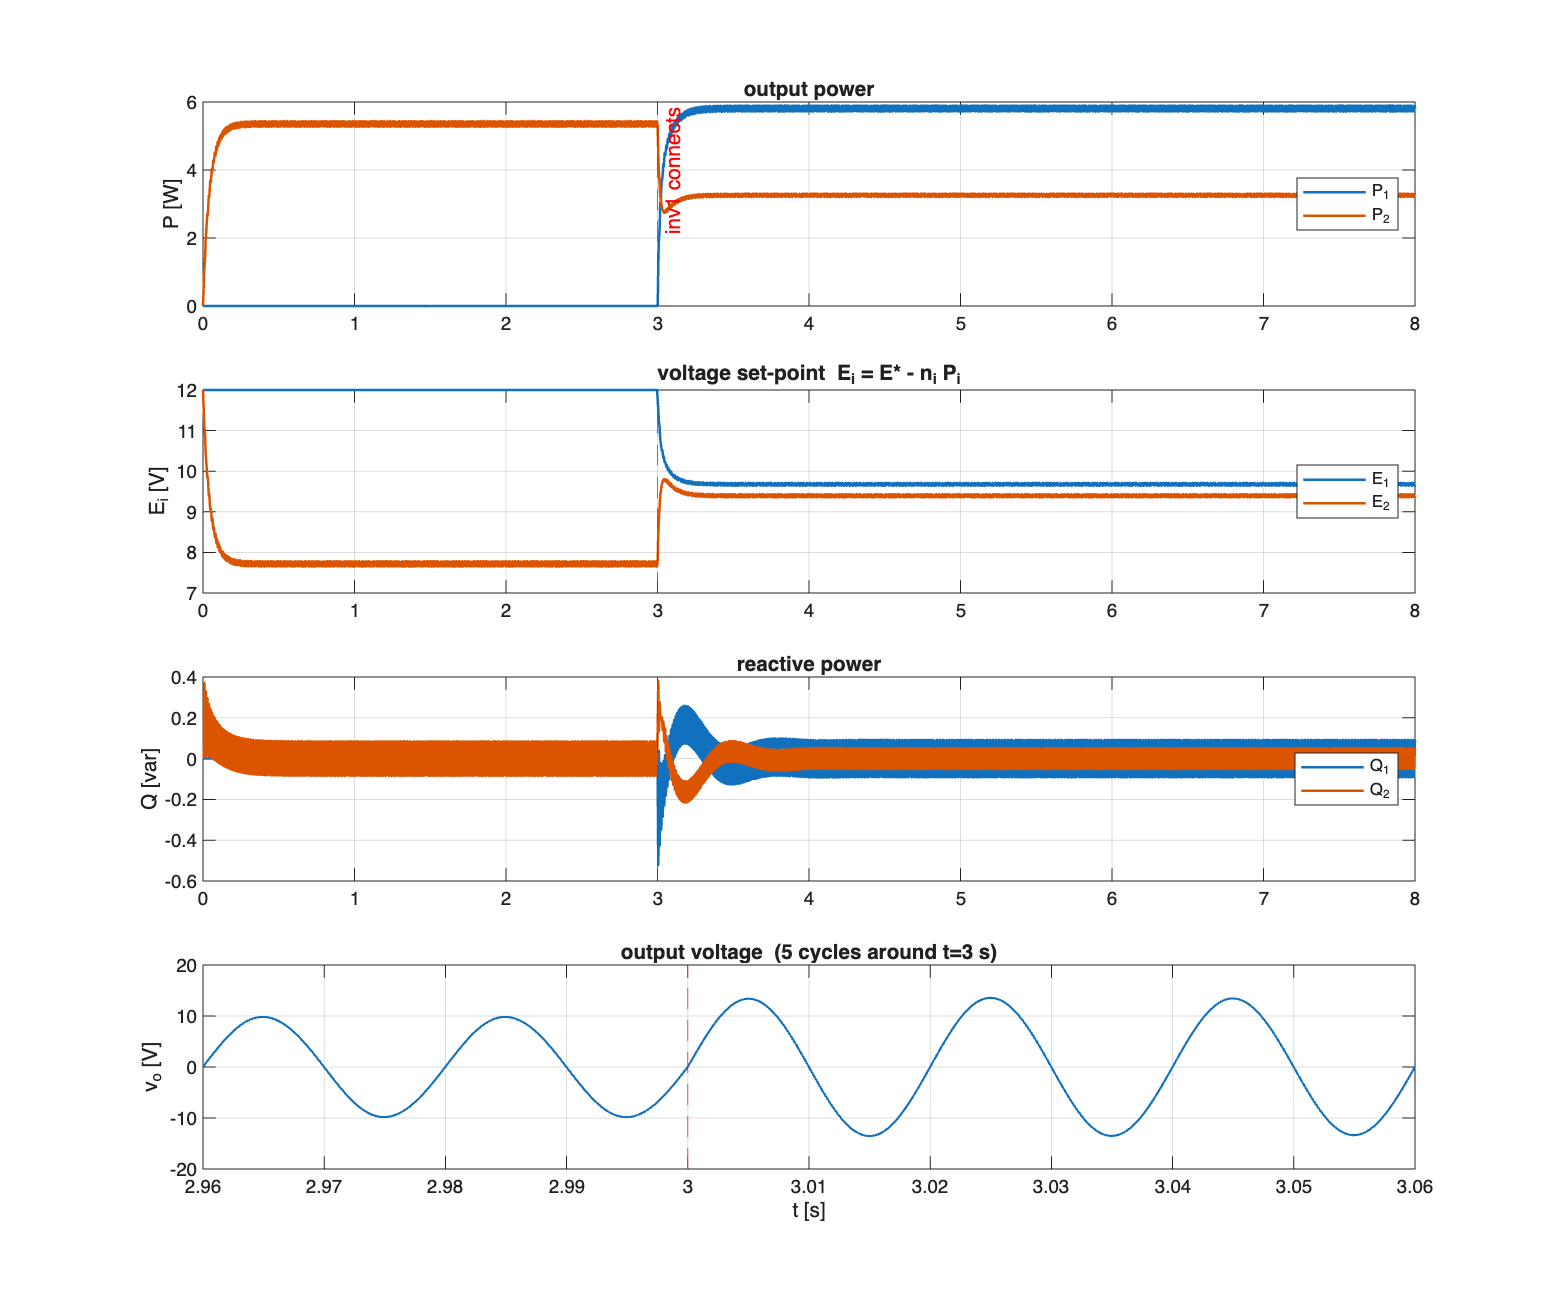
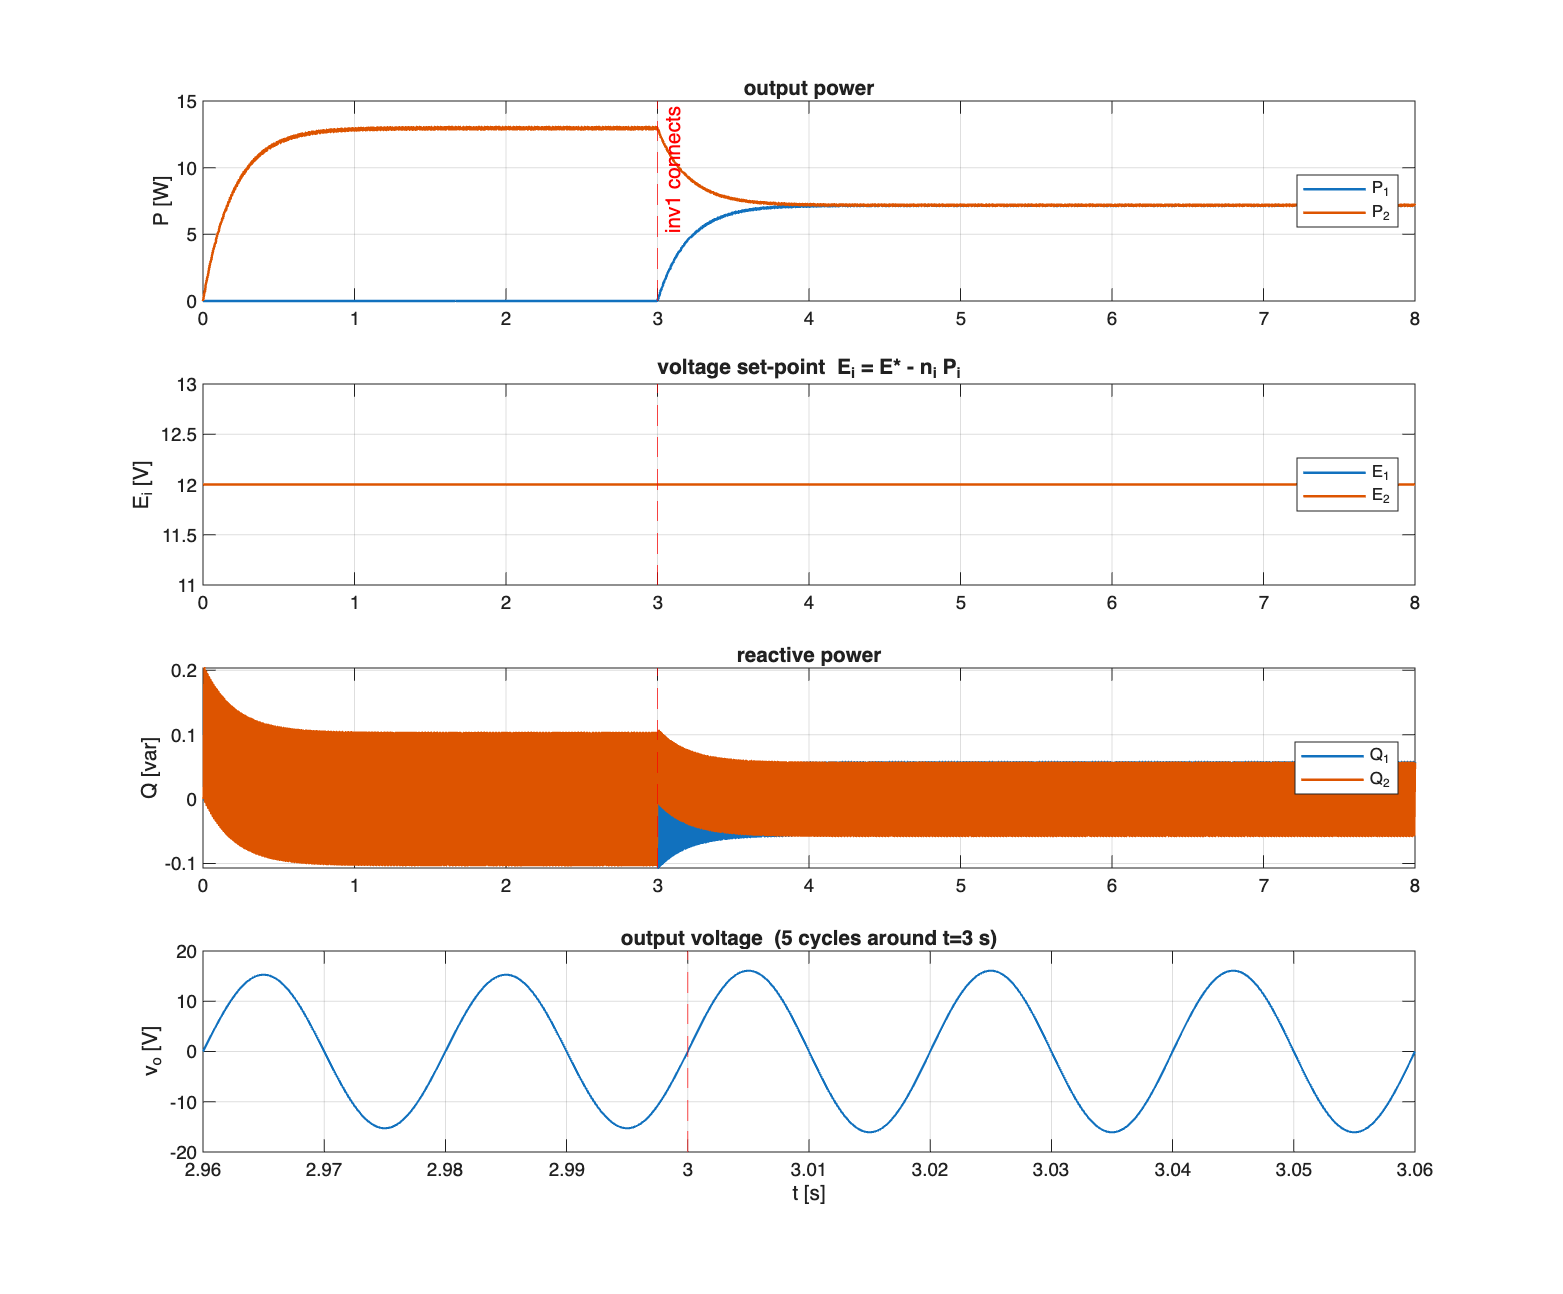
Add no-ripple variant (quadrature/alpha-beta power) + README section 5
conv_droop_2Rinv_noripple.slx: same circuit as the original, but P and Q are
computed with quadrature (alpha-beta) power so the 100 Hz (2-omega) ripple cancels
mathematically instead of being low-pass filtered. Q path is pure quadrature (the
omega->theta integrator breaks its loop); P path keeps a high-bandwidth LPF_P
(wc=300) solely to break the algebraic loop from the algebraic E=E*-nP law.

Ripple drops from P1 pk-pk 0.092 W / Q1 0.554 var to ~0, load sharing P1/P2=1.78
unchanged. Adds build_noripple.m, compare_ripple.m, noripple_compare.png and README
section 5. Original model file is untouched.

diff --git a/build_noripple.m b/build_noripple.m
@@ -1,0 +1,71 @@
+function build_noripple()
+% BUILD_NORIPPLE  Create conv_droop_2Rinv_noripple from conv_droop_2Rinv by
+% replacing the (product + LPF) power calc with QUADRATURE (alpha-beta) power,
+% whose 2-omega ripple cancels mathematically. Original model file is untouched.
+%
+%   P = 0.5*( v_a*i_a + v_b*i_b )      Q = 0.5*( v_b*i_a - v_a*i_b )
+%   v_a=vo, v_b=delay90(vo), i_a=i, i_b=delay90(i)
+%
+% P path keeps a HIGH-BANDWIDTH LPF_P (wc=300) ONLY to break the algebraic loop
+% that appears because E=E*-nP is algebraic (no integrator). It does not remove
+% ripple -- the quadrature cancellation does. Q path needs no filter: the
+% omega->theta integrator (int_theta) already breaks its loop.
+src='conv_droop_2Rinv'; dst='conv_droop_2Rinv_noripple';
+bdclose('all');
+if isfile([dst '.slx']), delete([dst '.slx']); end
+load_system(src);
+save_system(src,dst);          % Save-As: in-memory model renamed to dst; src.slx unchanged
+for c={'Ctrl1','Ctrl2'}, surgery([dst '/' c{1}]); end
+save_system(dst);
+
+% ---- self-check ----
+sub=[dst '/Ctrl1'];
+has=@(n) ~isempty(find_system(sub,'SearchDepth',1,'Name',n));
+fprintf('=== %s / Ctrl1 blocks after surgery ===\n',dst);
+b=find_system(sub,'SearchDepth',1,'Type','Block');
+fprintf('  %s\n',strjoin(sort(cellfun(@(x) get_param(x,'Name'),b,'uni',0)),', '));
+assert(~has('LPF_Q'),'LPF_Q should be removed (Q path needs no filter)');
+assert(has('LPF_P'),'LPF_P should remain as loop-breaker');
+assert(strcmp(get_param([sub '/LPF_P'],'Denominator'),'[1 300]'),'LPF_P should be high-bandwidth');
+assert(has('gain_halfP')&&has('gain_halfQ')&&has('delay90_i')&&has('m_ab')&&has('m_bb'),'quadrature blocks missing');
+fprintf('OK: Q path pure-quadrature (no LPF); P path quadrature + high-bw LPF_P (loop breaker).\n');
+bdclose(dst);
+end
+
+function surgery(sub)
+% ===== shared: current quadrature component i_b = delay90(i) =====
+add_block('simulink/Continuous/Transport Delay',[sub '/delay90_i'],'DelayTime','0.005');
+add_line(sub,'i/1','delay90_i/1','autorouting','on');
+
+% ===== P path: quadrature power, REUSE LPF_P as a high-bandwidth loop breaker =====
+% old: p_mult -> LPF_P -> gain_n,Pout.  new: (p_mult,m_bb)->sum_P->gain_halfP->LPF_P->gain_n,Pout
+delete_line(sub,'p_mult/1','LPF_P/1');
+set_param([sub '/LPF_P'],'Numerator','300','Denominator','[1 300]');   % wc=300: breaks loop, not ripple
+add_block('simulink/Math Operations/Product',[sub '/m_bb']);
+add_block('simulink/Math Operations/Sum',[sub '/sum_P'],'Inputs','++');
+add_block('simulink/Math Operations/Gain',[sub '/gain_halfP'],'Gain','0.5');
+add_line(sub,'delay90/1','m_bb/1','autorouting','on');        % v_b
+add_line(sub,'delay90_i/1','m_bb/2','autorouting','on');      % i_b  => m_bb = v_b*i_b
+add_line(sub,'p_mult/1','sum_P/1','autorouting','on');        % v_a*i_a (existing p_mult)
+add_line(sub,'m_bb/1','sum_P/2','autorouting','on');
+add_line(sub,'sum_P/1','gain_halfP/1','autorouting','on');
+add_line(sub,'gain_halfP/1','LPF_P/1','autorouting','on');    % LPF_P still -> gain_n, Pout
+
+% ===== Q path: pure quadrature, DELETE LPF_Q (int_theta already breaks the loop) =====
+delete_line(sub,'q_mult/1','LPF_Q/1');
+delete_line(sub,'LPF_Q/1','gain_m/1');
+delete_line(sub,'LPF_Q/1','Qout/1');
+delete_block([sub '/LPF_Q']);
+add_block('simulink/Math Operations/Product',[sub '/m_ab']);
+add_block('simulink/Math Operations/Sum',[sub '/sum_Q'],'Inputs','+-');
+add_block('simulink/Math Operations/Gain',[sub '/gain_halfQ'],'Gain','0.5');
+add_line(sub,'vo/1','m_ab/1','autorouting','on');            % v_a
+add_line(sub,'delay90_i/1','m_ab/2','autorouting','on');     % i_b  => m_ab = v_a*i_b
+add_line(sub,'q_mult/1','sum_Q/1','autorouting','on');       % v_b*i_a (existing q_mult)
+add_line(sub,'m_ab/1','sum_Q/2','autorouting','on');         % minus on input 2
+add_line(sub,'sum_Q/1','gain_halfQ/1','autorouting','on');
+add_line(sub,'gain_halfQ/1','gain_m/1','autorouting','on');
+add_line(sub,'gain_halfQ/1','Qout/1','autorouting','on');
+
+try, Simulink.BlockDiagram.arrangeSystem(sub); catch, end
+end

diff --git a/compare_ripple.m b/compare_ripple.m
@@ -1,0 +1,39 @@
+function compare_ripple()
+% Run the original (LPF) and the no-ripple (quadrature) models and compare.
+m1='conv_droop_2Rinv'; m2='conv_droop_2Rinv_noripple';
+o1=simrun(m1); o2=simrun(m2);
+w=[6 8];                                   % steady window, both inverters on
+fprintf('--- steady window t=[6,8] s ---\n');
+report('orig    (LPF)       ',o1,w);
+report('noripple(quadrature)',o2,w);
+
+f=figure('Visible','on','Position',[60 40 1100 820]);
+subplot(3,1,1);
+plot(o1.t,o1.Q1,'Color',[.88 .55 .55]); hold on; plot(o2.t,o2.Q1,'b','LineWidth',1.1);
+grid on; xline(3,'r--'); ylabel('Q_1 [var]');
+legend('orig (LPF, \omega_c=30)','no-ripple (quadrature)','Location','northeast');
+title('Reactive power Q_1 — the 100 Hz ripple band collapses to a line');
+subplot(3,1,2);
+plot(o1.t,o1.P1,'Color',[.88 .55 .55]); hold on; plot(o2.t,o2.P1,'b','LineWidth',1.1);
+grid on; xline(3,'r--'); ylabel('P_1 [W]');
+legend('orig','no-ripple','Location','east'); title('Active power P_1 — same steady value, no ripple');
+subplot(3,1,3);
+plot(o2.t,o2.P1,'b',o2.t,o2.P2,'r','LineWidth',1.1); grid on; xline(3,'r--');
+ylabel('P [W]'); xlabel('t [s]');
+legend('P_1','P_2','Location','east'); title('no-ripple model: load sharing P_1/P_2 unchanged (\approx 1.78)');
+saveas(f,'noripple_compare.png'); fprintf('saved noripple_compare.png\n');
+end
+
+function o=simrun(m)
+if ~bdIsLoaded(m), load_system(m); end
+s=sim(m,'StopTime','8');
+o.t=s.P1.Time; o.P1=s.P1.Data; o.P2=s.P2.Data;
+o.Q1=s.Q1.Data; o.Q2=s.Q2.Data; o.E1=s.E1.Data; o.E2=s.E2.Data; o.Vo=s.Vo.Data;
+end
+
+function report(tag,o,w)
+idx=o.t>=w(1)&o.t<=w(2);
+pp=@(x) max(x(idx))-min(x(idx)); mn=@(x) mean(x(idx));
+fprintf('%s  P1=%.3f(pp %.4f)  P2=%.3f  Q1=%.3f(pp %.4f)  Q2=%.3f(pp %.4f)  P1/P2=%.3f\n',...
+  tag, mn(o.P1),pp(o.P1), mn(o.P2), mn(o.Q1),pp(o.Q1), mn(o.Q2),pp(o.Q2), mn(o.P1)/mn(o.P2));
+end

diff --git a/README.md b/README.md
@@ -9,10 +9,14 @@ exposes — the **load-sharing error** that motivates the robust-droop scheme of
 
 | File | Purpose |
 |------|---------|
-| `conv_droop_2Rinv.slx` | The model: power circuit + two droop controllers `Ctrl1`, `Ctrl2` |
-| `run_conv.m` | Simulate (no rebuild) and pop up the 4-panel result figure |
+| `conv_droop_2Rinv.slx` | **Original model**: power circuit + two conventional-droop controllers `Ctrl1`, `Ctrl2` (product + LPF power calc) |
+| `conv_droop_2Rinv_noripple.slx` | **No-ripple variant**: same circuit, power computed by the quadrature (αβ) method so the 100 Hz ripple cancels — see §5 |
+| `run_conv.m` | Simulate the original model (no rebuild) and pop up the 4-panel result figure |
+| `build_noripple.m` | Build `…_noripple.slx` from the original by editing the two controllers (original file untouched) |
+| `compare_ripple.m` | Run both models and plot the ripple comparison |
 | `circuit.svg` | Power-circuit schematic (shown below) |
-| `conv_run_results.png` | Last simulation output |
+| `conv_run_results.png` | Original-model result |
+| `noripple_compare.png` | Original vs no-ripple comparison (see §5) |
 
 ---
 
@@ -235,6 +239,83 @@ At steady state `Ė_i = 0`, so `K_e·(E* − Vo) = n_i·P_i`. The left side uses
 *exactly*, **independent of the `Ro` drops**. That restores `P1/P2 → 2.00` and pulls
 `Vo` back toward `E*`. Building that version on the same circuit is the natural next
 step.
+
+---
+
+## 5. The `no_ripple` version — quadrature (αβ) power, ripple = 0
+
+The original model filters the 100 Hz (2ω) ripple out of `P` and `Q` with low-pass
+filters. As §3 explains, an LPF can only *attenuate* that ripple — it never reaches
+exactly zero, and pushing it lower costs response speed. The file
+`conv_droop_2Rinv_noripple.slx` removes the ripple **at the source** by changing the
+*algorithm*, not by tuning a filter.
+
+### Method — quadrature (αβ) power
+
+Build a 90°-shifted (quadrature) copy of **both** the voltage and the current, then
+compute power in the αβ frame:
+
+```
+   v_a = vo ,   v_b = vo delayed by T/4   (= delay90,   already in the model)
+   i_a = i  ,   i_b = i  delayed by T/4   (= delay90_i, newly added)
+
+   P = ½ ( v_a·i_a + v_b·i_b )
+   Q = ½ ( v_b·i_a − v_a·i_b )
+```
+
+For a sinusoid the two 2ω terms cancel exactly, so `P` and `Q` come out as pure DC —
+no low-pass needed. (Proof for P: the in-phase product carries `VI[cosφ − cos(2ωt−φ)]`
+and the quadrature product carries `VI[cosφ + cos(2ωt−φ)]`; their sum is `2·VI·cosφ`,
+a constant.)
+
+### Two design details that matter
+
+- **Q path: pure quadrature, no filter.** Reactive power feeds `ω → ∫ → θ`, and that
+  integrator (`int_theta`) is a state, so the Q loop is already broken. `LPF_Q` is
+  **deleted** entirely.
+- **P path: keeps a *high-bandwidth* `LPF_P` (ωc = 300, τ ≈ 3 ms) as a loop-breaker.**
+  Active power feeds `E = E* − n·P`, which is purely **algebraic** (the defining feature
+  of conventional droop — no integrator on E). Because the resistive `Ro` also makes the
+  bus voltage an algebraic function of `vref`, the path `vo → P → E → vref → vo` would
+  form an **algebraic loop**. One state breaks it. This `LPF_P` is **not** removing
+  ripple (the quadrature cancellation already did — ωc=300 attenuates 100 Hz by only
+  ~0.43, nowhere near enough); it is a loop-breaker / band-limiter, so it can be fast.
+
+This asymmetry mirrors the physics: `E = E*−nP` is algebraic → needs a state; `ω = ω*+mQ`
+is followed by an integrator → already has one.
+
+### Result (steady window t ∈ [6, 8] s)
+
+| | `P₁` ripple (pk-pk) | `Q₁` ripple (pk-pk) | `P₁/P₂` |
+|---|---|---|---|
+| Original (LPF) | 0.092 W | 0.554 var | 1.783 |
+| **No-ripple (quadrature)** | **0.0000 W** | **0.0000 var** | **1.783** |
+
+![Original vs no-ripple](noripple_compare.png)
+
+The ripple band collapses to a flat line, **and** the steady-state load sharing is
+untouched (`P₁/P₂ = 1.78` — the conventional-droop error of §4 is unchanged, because the
+quadrature method changes how `P, Q` are *measured*, not the droop physics). Bonus: with
+no heavy low-pass in the P path, `P₁` reaches its value almost instantly after the t = 3 s
+connection instead of the slow τ = 0.2 s climb of the original (middle panel above).
+
+### Honest caveats
+
+- The T/4 delay is an exact 90° shift only at 50 Hz. Here the steady frequency stays
+  essentially at `ω*` (Q ≈ 0), so the shift is essentially exact and the residual is
+  negligible.
+- At the connection instant the delay blocks carry ~5 ms of stale history, so `P, Q`
+  show a brief spike (visible at t = 3 s) before settling to zero ripple.
+- "Exactly zero" holds for this **average-value** model (no PWM). A switching model would
+  still show high-frequency content from the converter itself.
+
+### Rebuild / run it
+
+```matlab
+cd ~/Documents/UniversalDroopControl/ConventionalDroop
+build_noripple     % regenerate …_noripple.slx from the original (original untouched)
+compare_ripple     % run both models, print ripple metrics, save noripple_compare.png
+```
 
 ---
 